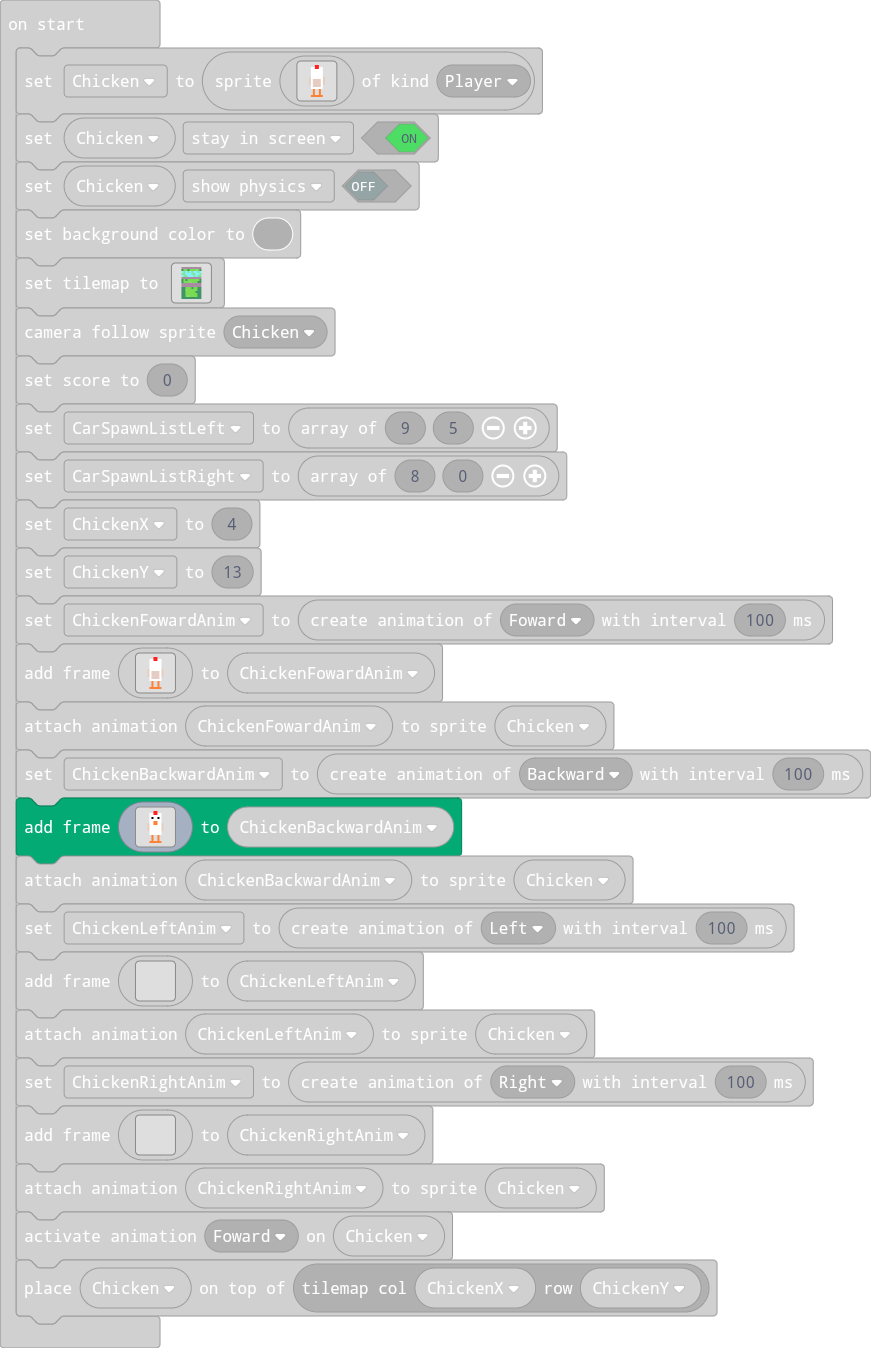
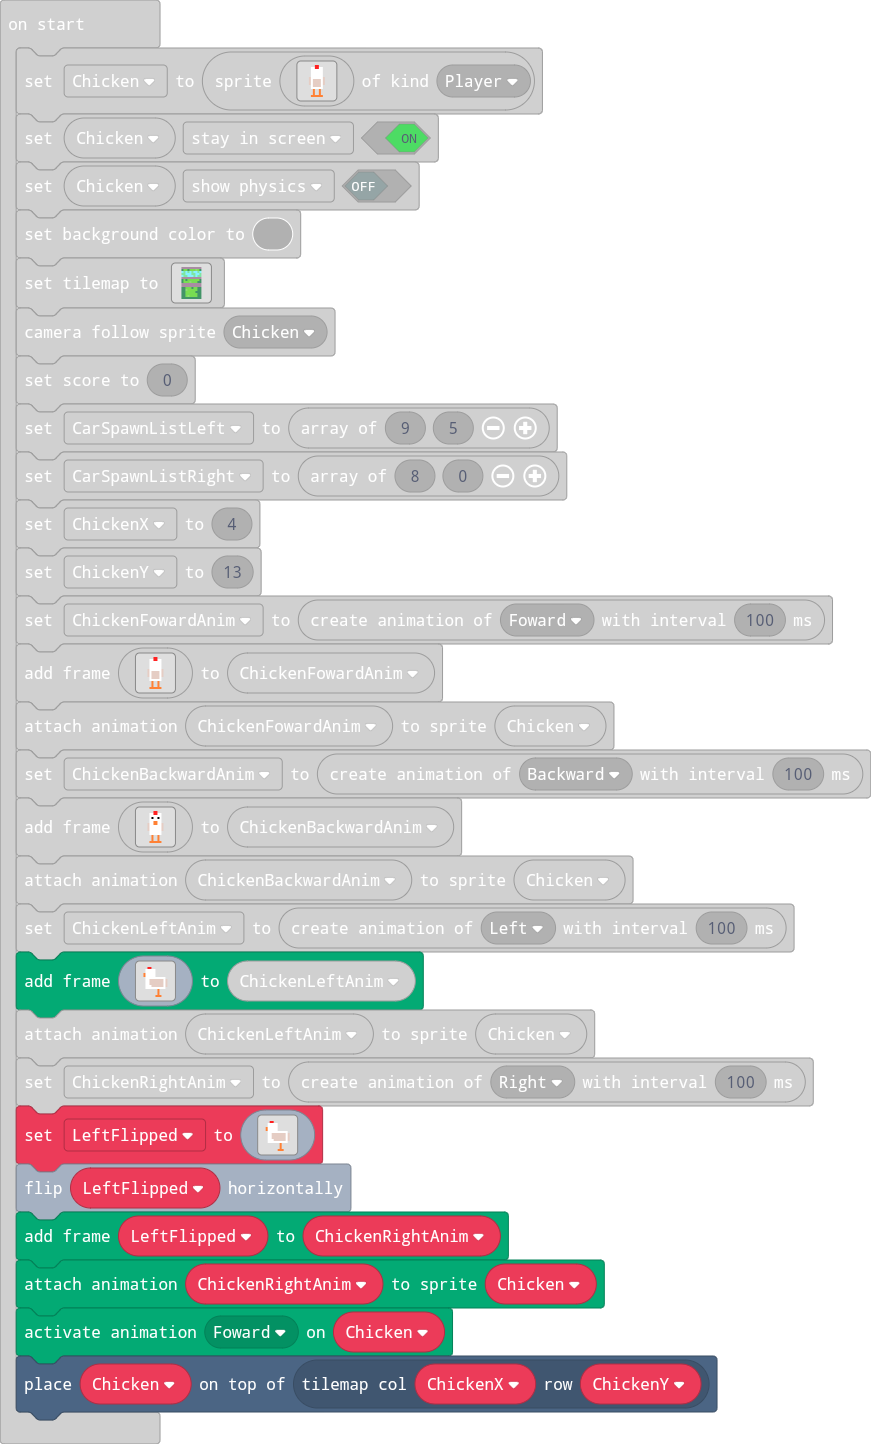
Update main.blocks, main.ts

diff --git a/main.ts b/main.ts
@@ -221,42 +221,44 @@ animation.attachAnimation(Chicken, ChickenBackwardAnim)
 let ChickenLeftAnim = animation.createAnimation(ActionKind.Left, 100)
 ChickenLeftAnim.addAnimationFrame(img`
 . . . . . . . . . . . . . . . . 
-. . . . . . . . . . . . . . . . 
-. . . . . . . . . . . . . . . . 
-. . . . . . . . . . . . . . . . 
-. . . . . . . . . . . . . . . . 
-. . . . . . . . . . . . . . . . 
-. . . . . . . . . . . . . . . . 
-. . . . . . . . . . . . . . . . 
-. . . . . . . . . . . . . . . . 
-. . . . . . . . . . . . . . . . 
-. . . . . . . . . . . . . . . . 
-. . . . . . . . . . . . . . . . 
-. . . . . . . . . . . . . . . . 
-. . . . . . . . . . . . . . . . 
-. . . . . . . . . . . . . . . . 
-. . . . . . . . . . . . . . . . 
+. . . . 2 2 . . . . . . . . . . 
+. . . 1 1 1 1 1 . . . . . . . . 
+. . . 1 1 1 1 1 . . . . . . . . 
+. . 4 1 1 1 1 1 . . . . . . . . 
+. . 4 1 1 1 1 1 . . . . . . . . 
+. . . 1 1 1 1 1 1 1 1 1 1 . . . 
+. . . 1 1 d d d d d d d 1 d . . 
+. . . 1 1 d d d d d d d 1 d . . 
+. . . 1 1 d d d d d d d 1 d . . 
+. . . 1 1 1 d d d d d d 1 d . . 
+. . . 1 1 1 1 1 1 1 1 1 1 . . . 
+. . . . . . . . . 4 . . . . . . 
+. . . . . . . . . 4 . . . . . . 
+. . . . . . . . . 4 . . . . . . 
+. . . . . . . . 4 4 4 . . . . . 
 `)
 animation.attachAnimation(Chicken, ChickenLeftAnim)
 let ChickenRightAnim = animation.createAnimation(ActionKind.Right, 100)
-ChickenRightAnim.addAnimationFrame(img`
+let LeftFlipped = img`
 . . . . . . . . . . . . . . . . 
-. . . . . . . . . . . . . . . . 
-. . . . . . . . . . . . . . . . 
-. . . . . . . . . . . . . . . . 
-. . . . . . . . . . . . . . . . 
-. . . . . . . . . . . . . . . . 
-. . . . . . . . . . . . . . . . 
-. . . . . . . . . . . . . . . . 
-. . . . . . . . . . . . . . . . 
-. . . . . . . . . . . . . . . . 
-. . . . . . . . . . . . . . . . 
-. . . . . . . . . . . . . . . . 
-. . . . . . . . . . . . . . . . 
-. . . . . . . . . . . . . . . . 
-. . . . . . . . . . . . . . . . 
-. . . . . . . . . . . . . . . . 
-`)
+. . . . 2 2 . . . . . . . . . . 
+. . . 1 1 1 1 1 . . . . . . . . 
+. . . 1 1 1 1 1 . . . . . . . . 
+. . 4 1 1 1 1 1 . . . . . . . . 
+. . 4 1 1 1 1 1 . . . . . . . . 
+. . . 1 1 1 1 1 1 1 1 1 1 . . . 
+. . . 1 1 d d d d d d d 1 d . . 
+. . . 1 1 d d d d d d d 1 d . . 
+. . . 1 1 d d d d d d d 1 d . . 
+. . . 1 1 1 d d d d d d 1 d . . 
+. . . 1 1 1 1 1 1 1 1 1 1 . . . 
+. . . . . . . . . 4 . . . . . . 
+. . . . . . . . . 4 . . . . . . 
+. . . . . . . . . 4 . . . . . . 
+. . . . . . . . 4 4 4 . . . . . 
+`
+LeftFlipped.flipX()
+ChickenRightAnim.addAnimationFrame(LeftFlipped)
 animation.attachAnimation(Chicken, ChickenRightAnim)
 animation.setAction(Chicken, ActionKind.Foward)
 tiles.placeOnTile(Chicken, tiles.getTileLocation(ChickenX, ChickenY))
